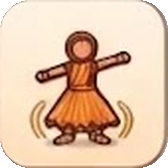
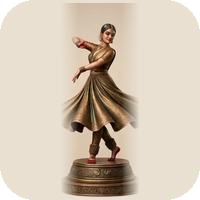
Use the bronze dancer statues for the dance styles
Kathak, Odissi and Kuchipudi get single statues cut from
design/source-sheets/dance-statues.webp onto matching cream tiles; the
four-dancer group becomes the Dance, Music & Sangeetham category icon. The
five unused statues are kept in design/dance-statues for future styles.

diff --git a/src/lib/subcategory-art.ts b/src/lib/subcategory-art.ts
@@ -171,4 +171,4 @@ export const ILLUSTRATED_SUBCATEGORIES = new Set<string>([
 
 // Categories with an illustrated icon (public/categories/<CATEGORY>.png); the rest use the drawn .svg from
 // scripts/category-icons.mjs.
-export const ILLUSTRATED_CATEGORIES = new Set<string>(["DOMESTIC_HELP"]);
+export const ILLUSTRATED_CATEGORIES = new Set<string>(["DANCE_MUSIC", "DOMESTIC_HELP"]);

diff --git a/design/README.md b/design/README.md
@@ -36,3 +36,9 @@ To use a photo instead of a drawing, copy it to `public/categories/` and point `
   others' cream background so they sit the same size.
 - The drawn `.svg` next to each one (from `scripts/subcategory-icons.mjs`) is the fallback for any new
   subcategory until it gets an illustration.
+- `source-sheets/dance-statues.webp`: eight bronze dancer statues, cut to `dance-statues/statue-1.png` … `-8.png`
+  (each centered on a cream tile). In use: 2 Kathak, 4 Odissi, 5 Kuchipudi. Spare for future styles: 1 (male
+  dancer), 3 (aramandi, like Bharatanatyam), 6 (wide fan skirt), 7 (saree-draped, e.g. Mohiniyattam), 8 (crowned
+  folk dancer, e.g. Kathakali or Yakshagana).
+- `source-sheets/category-dance-music.webp`: the four-dancer group, used as the Dance, Music & Sangeetham
+  category icon (`public/categories/DANCE_MUSIC.png`).
